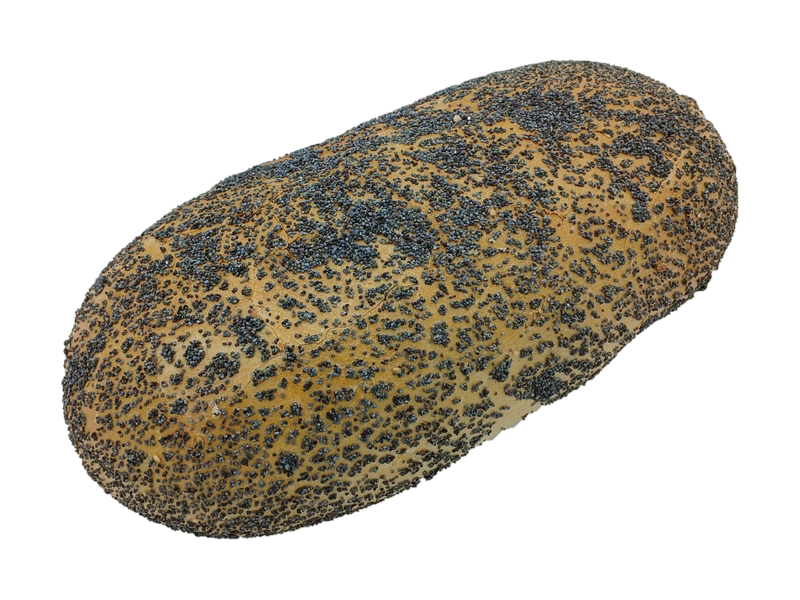
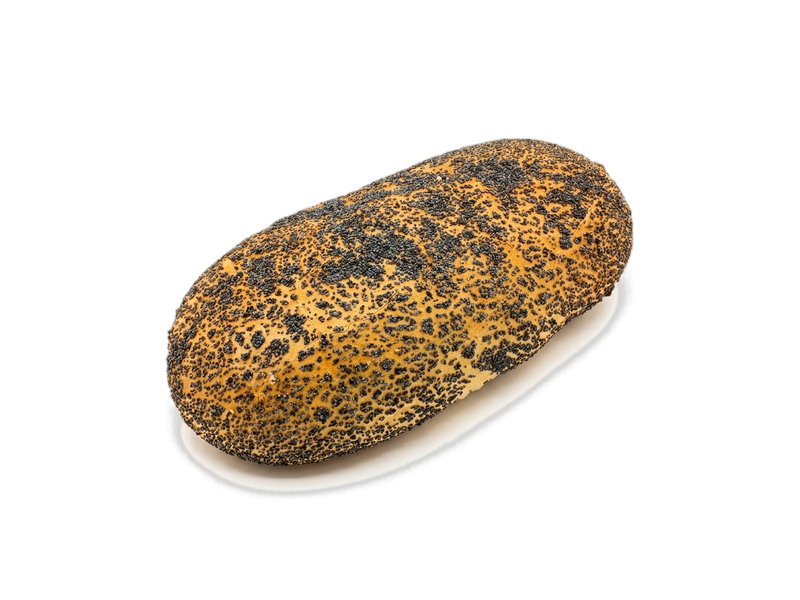
feat(products): improve studio product photography for Chleb żytni z papryką and Chleb Baltonowski z makiem

diff --git a/src/js/products-data.js b/src/js/products-data.js
@@ -23,8 +23,8 @@ const kategorieProduktow = [
             { id: "chleb_zakwas", name: "Chleb na naturalnym zakwasie", weight: "600g", packaging: "Skrzynka 12 szt. / Paleta: 48 skrzynek", image: "img/chleb_zakwas.webp", shelfLife: "72h", cert: "IFS Food, BRC", isFresh: true, isFrozen: false, description: "Pieczywo mieszane pszenno – żytnie na naturalnym zakwasie żytnim produkowane metodą wielofazową." },
             { id: "chleb_zytni_kapusta", name: "Chleb żytni z kiszoną kapustą", weight: "400g", packaging: "Skrzynka 12 szt.", image: "img/chleb_zytni_kapusta.webp", shelfLife: "9 miesięcy (Mrożony)", cert: "IFS Food, BRC", isFresh: false, isFrozen: true, description: "Pieczywo żytnie z dodatkiem kapusty kiszonej." },
             { id: "chleb_zytni_chrzan", name: "Chleb żytni z chrzanem", weight: "400g", packaging: "Skrzynka 12 szt.", image: "img/chleb_zytni_chrzan.webp", shelfLife: "9 miesięcy (Mrożony)", cert: "IFS Food, BRC", isFresh: false, isFrozen: true, description: "Pieczywo żytnie z dodatkiem chrzanu tartego i majeranku." },
-            { id: "chleb_zytni_papryka", name: "Chleb żytni z papryką", weight: "380g", packaging: "Skrzynka 15 szt.", image: "img/chleb_zytni_papryka.webp", shelfLife: "9 miesięcy (Mrożony)", cert: "IFS Food, BRC", isFresh: false, isFrozen: true, description: "Pieczywo pszenno-żytnie z pieczoną papryką, posypane mieszanką ziaren sezamu oraz sezamu czarnego." },
-            { id: "chleb_baltonowski_z_makiem", name: "Chleb Baltonowski z makiem", weight: "500g", packaging: "Skrzynka 12 szt.", image: "img/chleb_baltonowski_z_makiem.webp", shelfLife: "72h (Świeży)", cert: "IFS Food, BRC", isFresh: true, isFrozen: false, description: "Pieczywo pszenno-żytnie. Bochenki o kształcie podłużnym, barwa złocisto-brązowa. Posypane makiem." },
+            { id: "chleb_zytni_papryka", name: "Chleb żytni z papryką", weight: "380g", packaging: "Skrzynka 15 szt.", image: "img/chleb_zytni_papryka.webp?v=2", shelfLife: "9 miesięcy (Mrożony)", cert: "IFS Food, BRC", isFresh: false, isFrozen: true, description: "Pieczywo pszenno-żytnie z pieczoną papryką, posypane mieszanką ziaren sezamu oraz sezamu czarnego." },
+            { id: "chleb_baltonowski_z_makiem", name: "Chleb Baltonowski z makiem", weight: "500g", packaging: "Skrzynka 12 szt.", image: "img/chleb_baltonowski_z_makiem.webp?v=2", shelfLife: "72h (Świeży)", cert: "IFS Food, BRC", isFresh: true, isFrozen: false, description: "Pieczywo pszenno-żytnie. Bochenki o kształcie podłużnym, barwa złocisto-brązowa. Posypane makiem." },
             { id: "chleb_2ab", name: "Chleb 2AB", weight: "300g", packaging: "Karton 10 szt.", image: "img/chleb_2ab.webp", shelfLife: "9 miesięcy (Mrożony)", cert: "IFS Food, BRC, Certyfikat 2AB", isFresh: false, isFrozen: true, description: "Pieczywo pszenne wypiekane z mąki 2AB (mąka pszenna z pradawnych odmian zbóż) na drożdżach." }
         ]
     },
